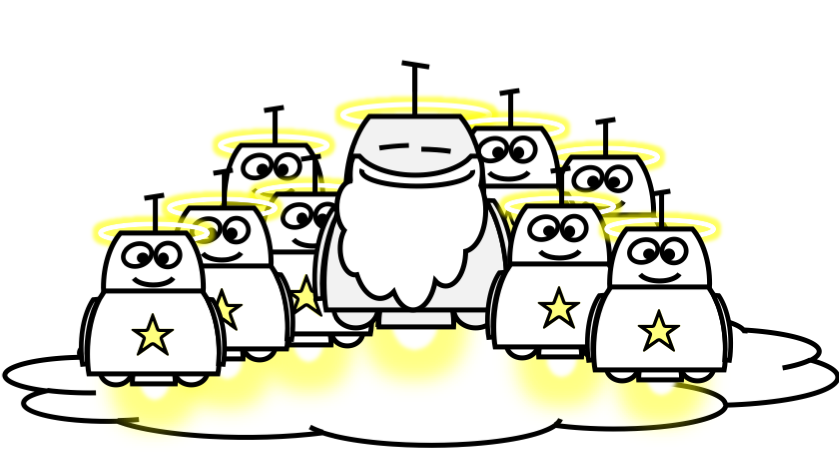
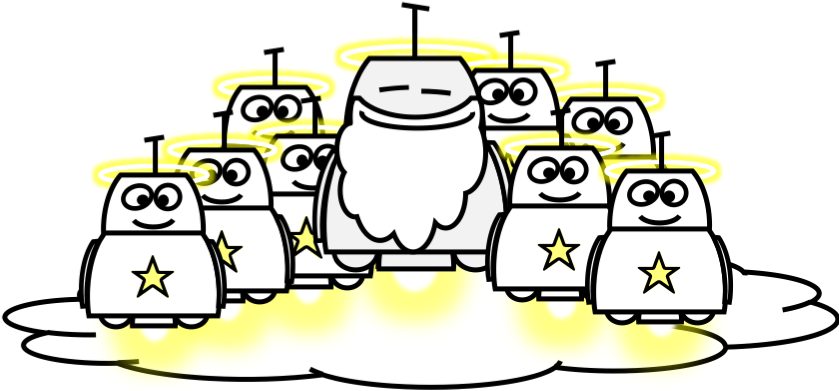
Fine-Tune in game sprites
* Vertically center logo
* Shrink god mode
* Update pow graphic

Changed region(s): [[0.0, 0.0, 1.0, 1.0]]

diff --git a/webapp/controls/MessageToastDeluxe.js b/webapp/controls/MessageToastDeluxe.js
@@ -75,11 +75,11 @@ sap.ui.define([
 				"effect_points.png": [200, 167],
 				"effect_points_critical.png": [200, 167],
 				"effect_points_negative.png": [200, 167],
-				"effect_pow.png": [300, 217],
+				"effect_pow.png": [300, 138],
 				"effect_lowenergy.png": [200, 160],
 				"Boom.png": [400, 179],
 				"Zing.png": [400, 299],
-				"GodMode.png": [839, 460],
+				"GodMode.png": [839, 391],
 				"BlauZaehne.png": [162, 191],
 				"GrauKeineMeinung.png": [162, 191],
 				"GruenHoffnungsvoll.png": [162, 191],
